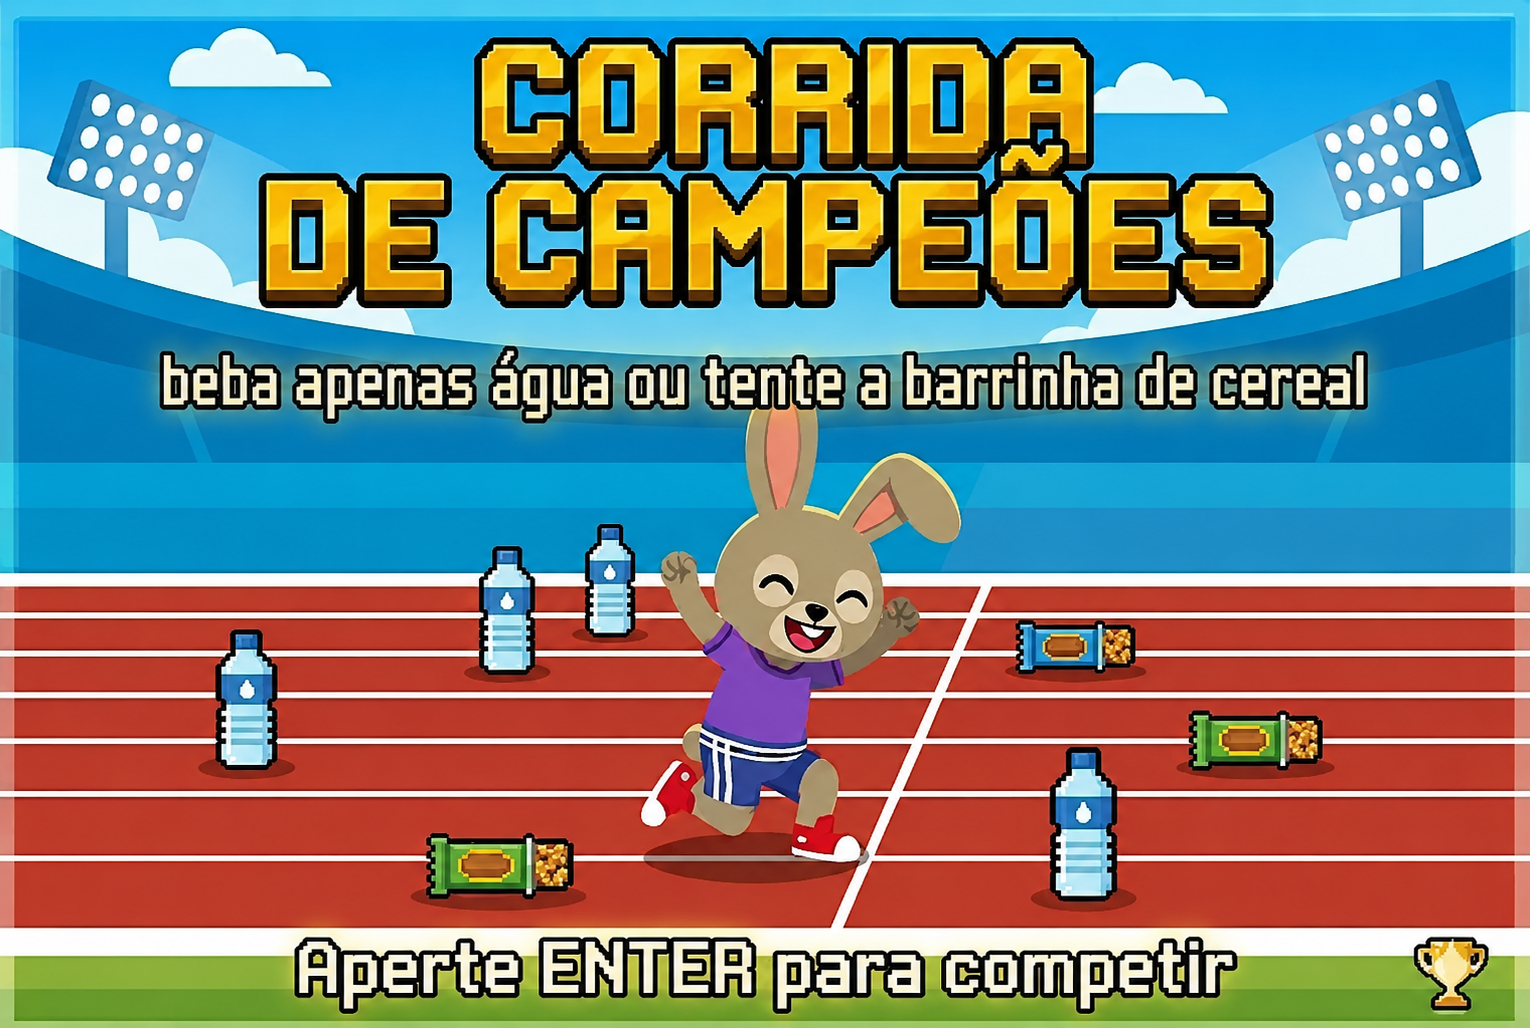
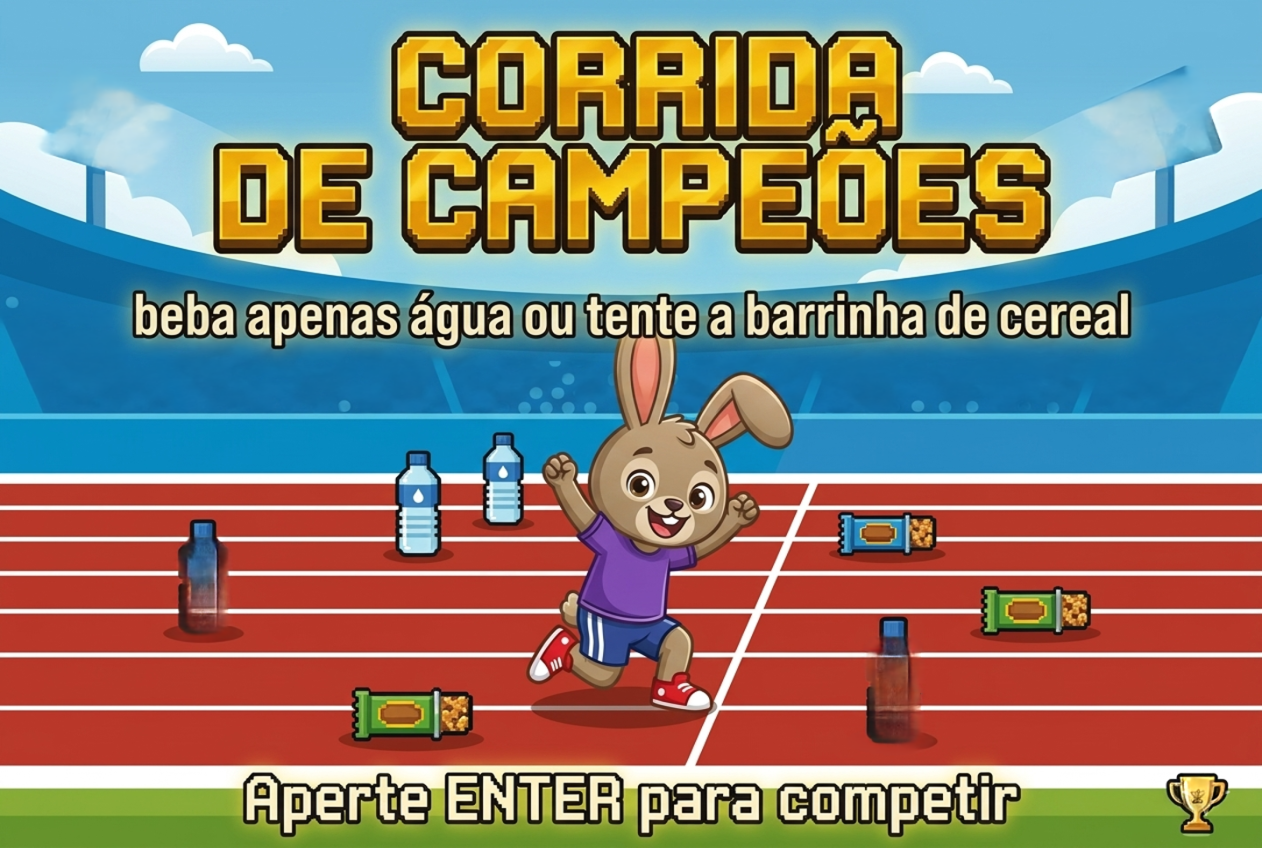
add melhoras

diff --git a/main.py b/main.py
@@ -38,8 +38,7 @@ inicio = pygame.transform.scale(inicio,(1200,800))
 perdeu = pygame.image.load(resource_path("src/img/perdeu.png"))
 ganhou = pygame.image.load(resource_path("src/img/ganhou.png"))
 
-lista_bonus = [Bonus(resource_path('src/img/barrinha.png')),
-               Bonus(resource_path('src/img/barrinha.png'))]
+lista_bonus = [Vida(resource_path('src/img/barrinha.png'))]
 
 
 segundos = 5
@@ -48,7 +47,6 @@ poder = False
 uso = 3
 pontos = 0
 vidas = 3
-bonus = Bonus()
 coelho = Jogador()
 fonte_texto = pygame.font.SysFont("Arial",20,True)
 fonte_text = pygame.font.SysFont("Segoe UI Emoji",18,True)
@@ -88,8 +86,13 @@ while rodando:
         coelho.exbir(tela)
 
         for bonus in lista_bonus:
-            if coelho.mascara.overlap(bonus.mascara,(bonus.pos_imagem_x - coelho.pos_imagem_x,bonus.pos_imagem_y - coelho.pos_imagem_y)):
-                vida += 2
+            if poder == False:
+                bonus.andar()
+                bonus.exibir(tela)
+                if coelho.mascara.overlap(bonus.mascara,(bonus.pos_imagem_x - coelho.pos_imagem_x,bonus.pos_imagem_y - coelho.pos_imagem_y)):
+                    vidas += 2
+                    bonus.voltar()
+
 
 
         for vida in lista_vidas:

diff --git a/classe_barrinha.py b/classe_barrinha.py
@@ -13,3 +13,6 @@ class Bonus:
         self.velocidade = random.randint(5,8)
 
         self.mascara = pygame.mask.from_surface(self.imagem)
+
+    def exibir(self, tela_do_jogo):
+        tela_do_jogo.blit(self.imagem,(self.pos_imagem_x,self.pos_imagem_y))
